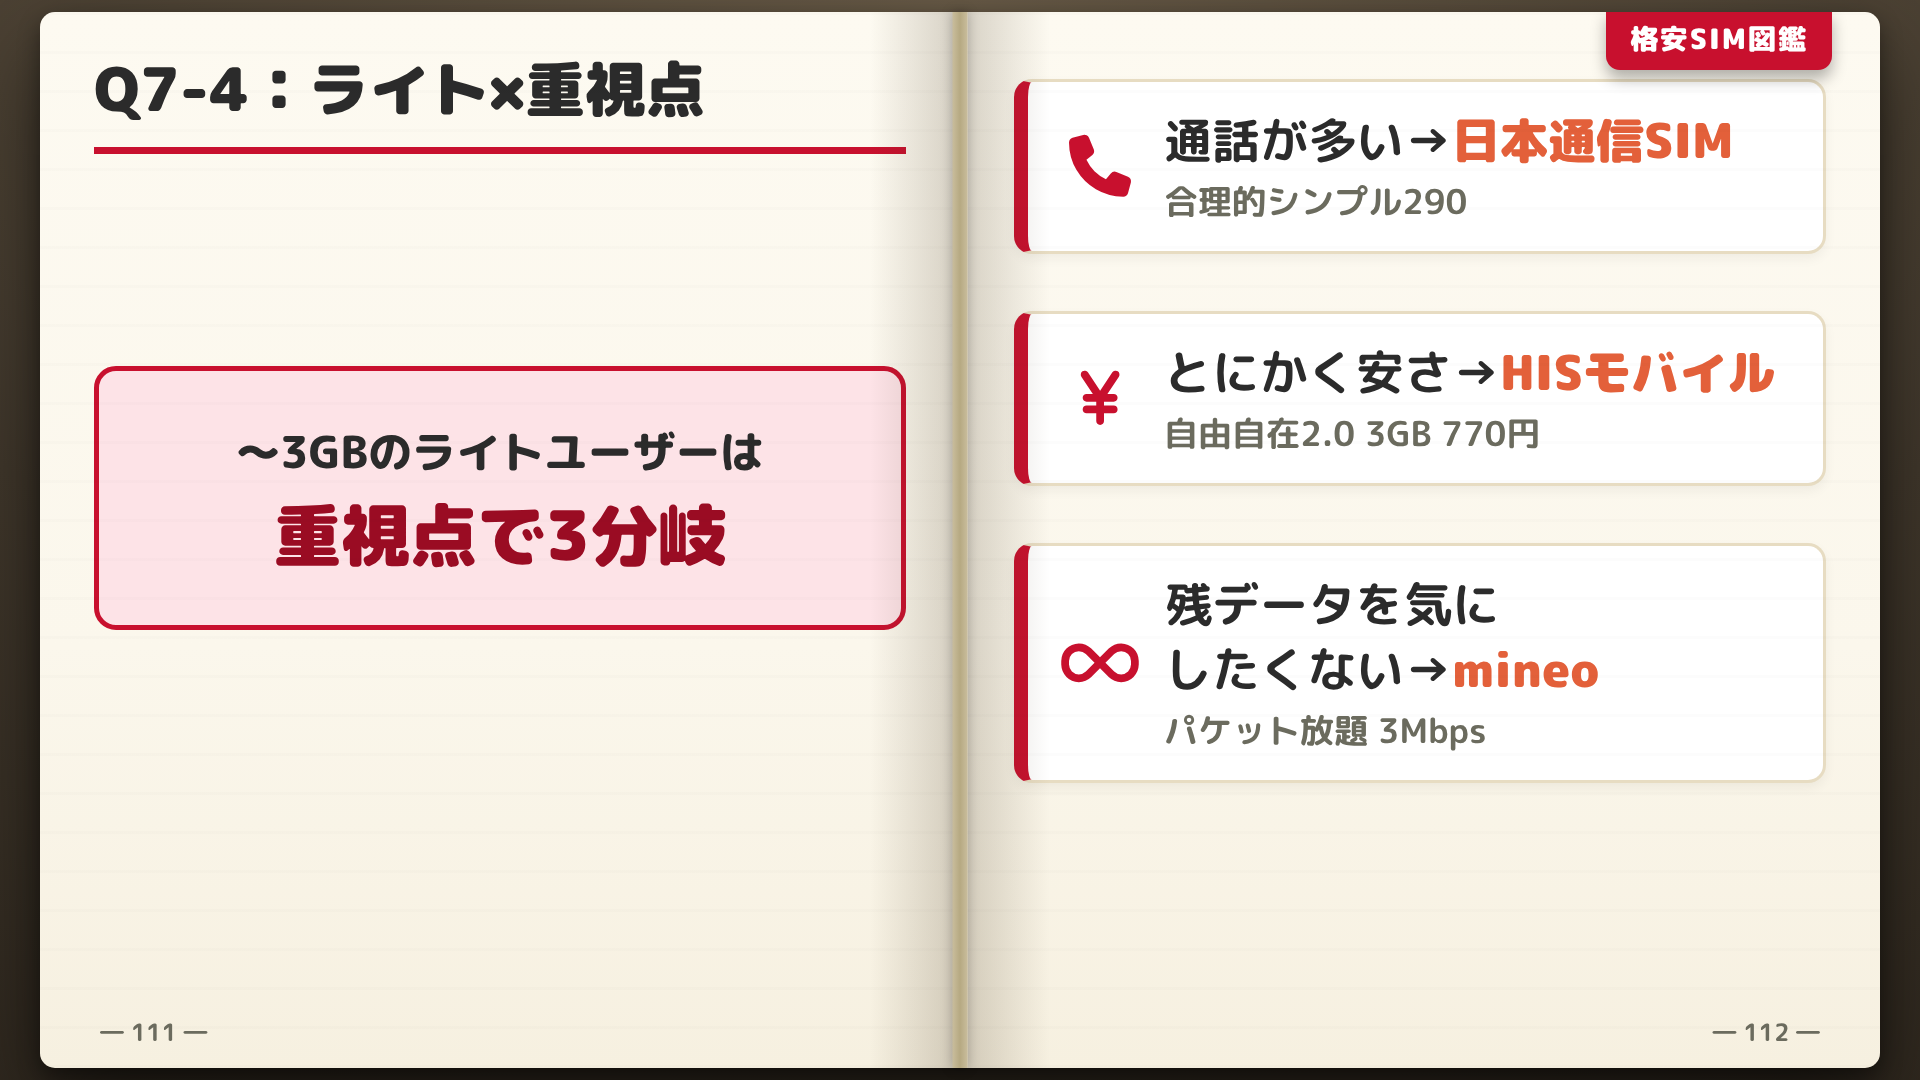
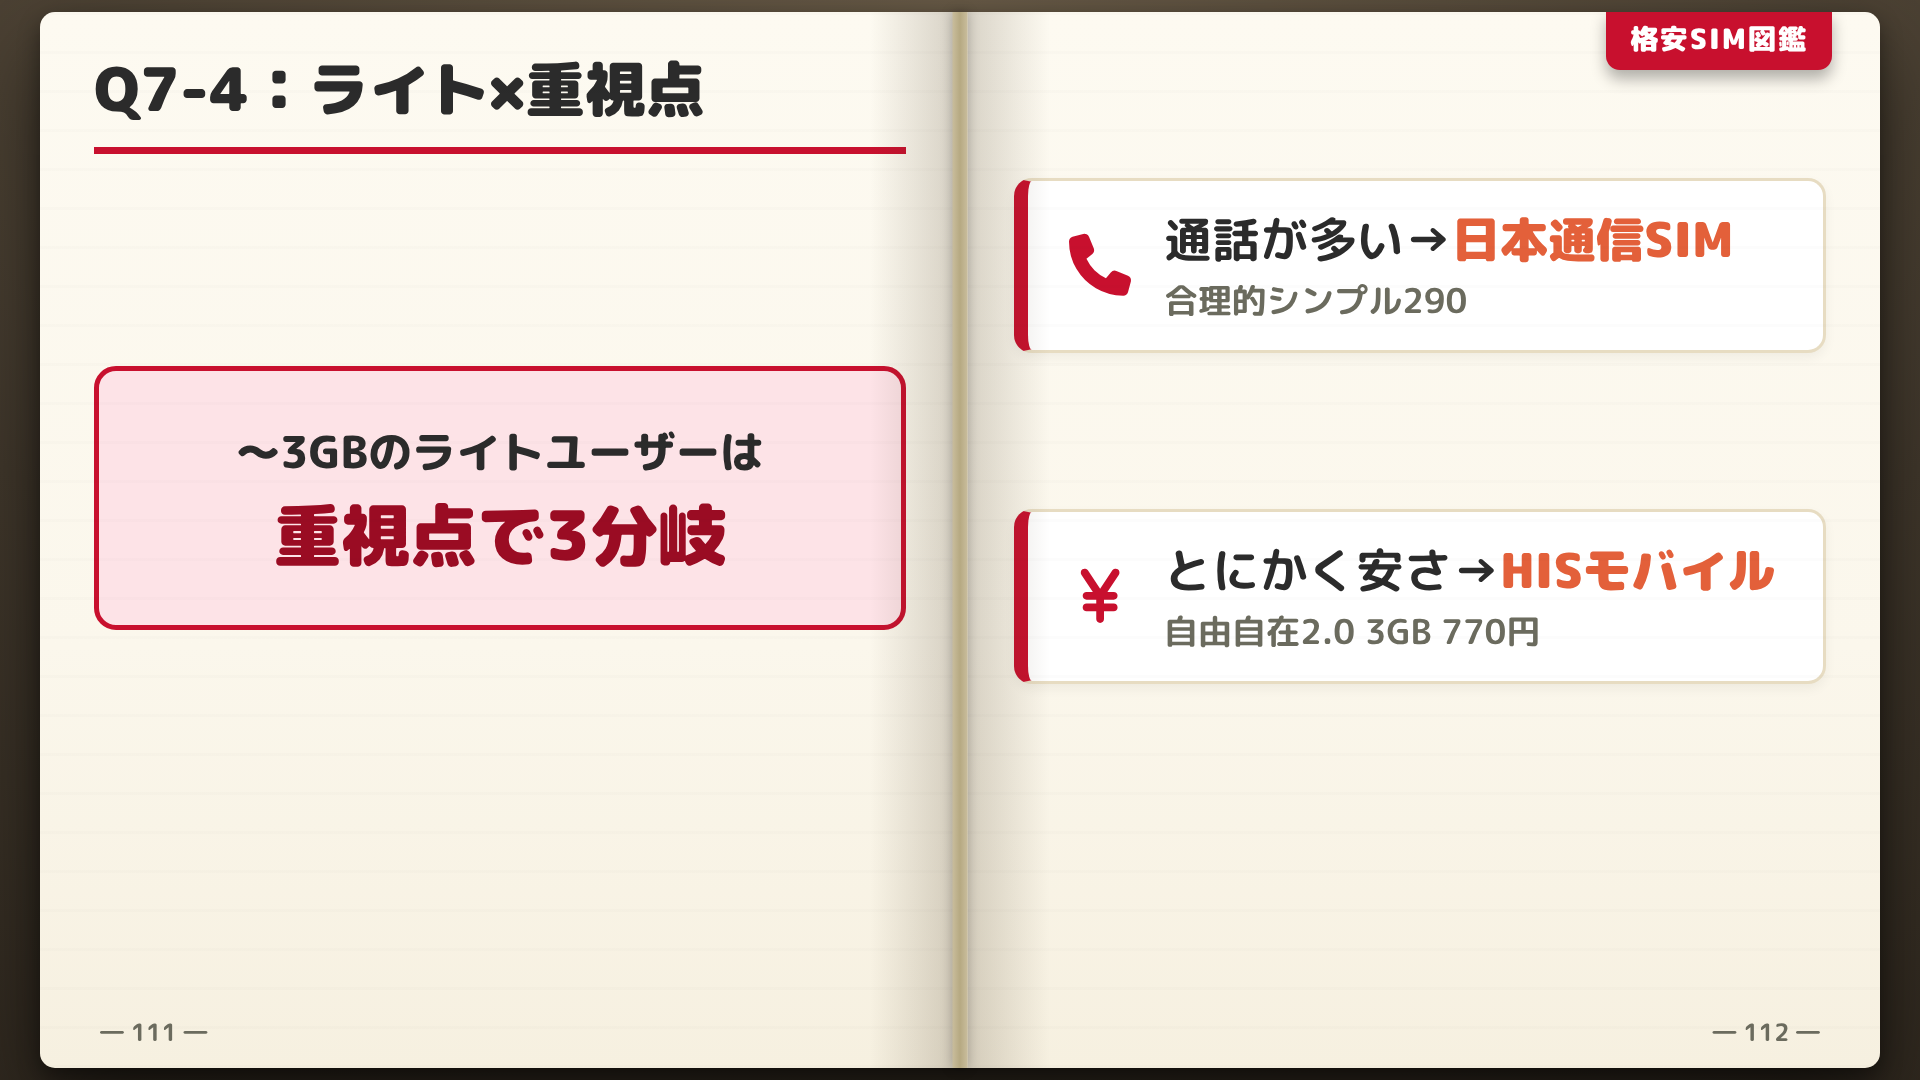
スライド改修

Changed region(s): [[0.5312, 0.0611, 0.9688, 0.5194], [0.5312, 0.4889, 0.9688, 0.7333]]

diff --git a/slides.html b/slides.html
@@ -1777,9 +1777,6 @@
             <li><span class="ic"><i class="fa-solid fa-yen-sign"></i></span>
               <div class="tx">とにかく安さ→<span class="em">HISモバイル</span><span class="sub">自由自在2.0 3GB 770円</span></div>
             </li>
-            <li><span class="ic"><i class="fa-solid fa-infinity"></i></span>
-              <div class="tx">残データを気にしたくない→<span class="em">mineo</span><span class="sub">パケット放題 3Mbps</span></div>
-            </li>
           </ul>
         </div><span class="page-no">― 112 ―</span>
       </div>
